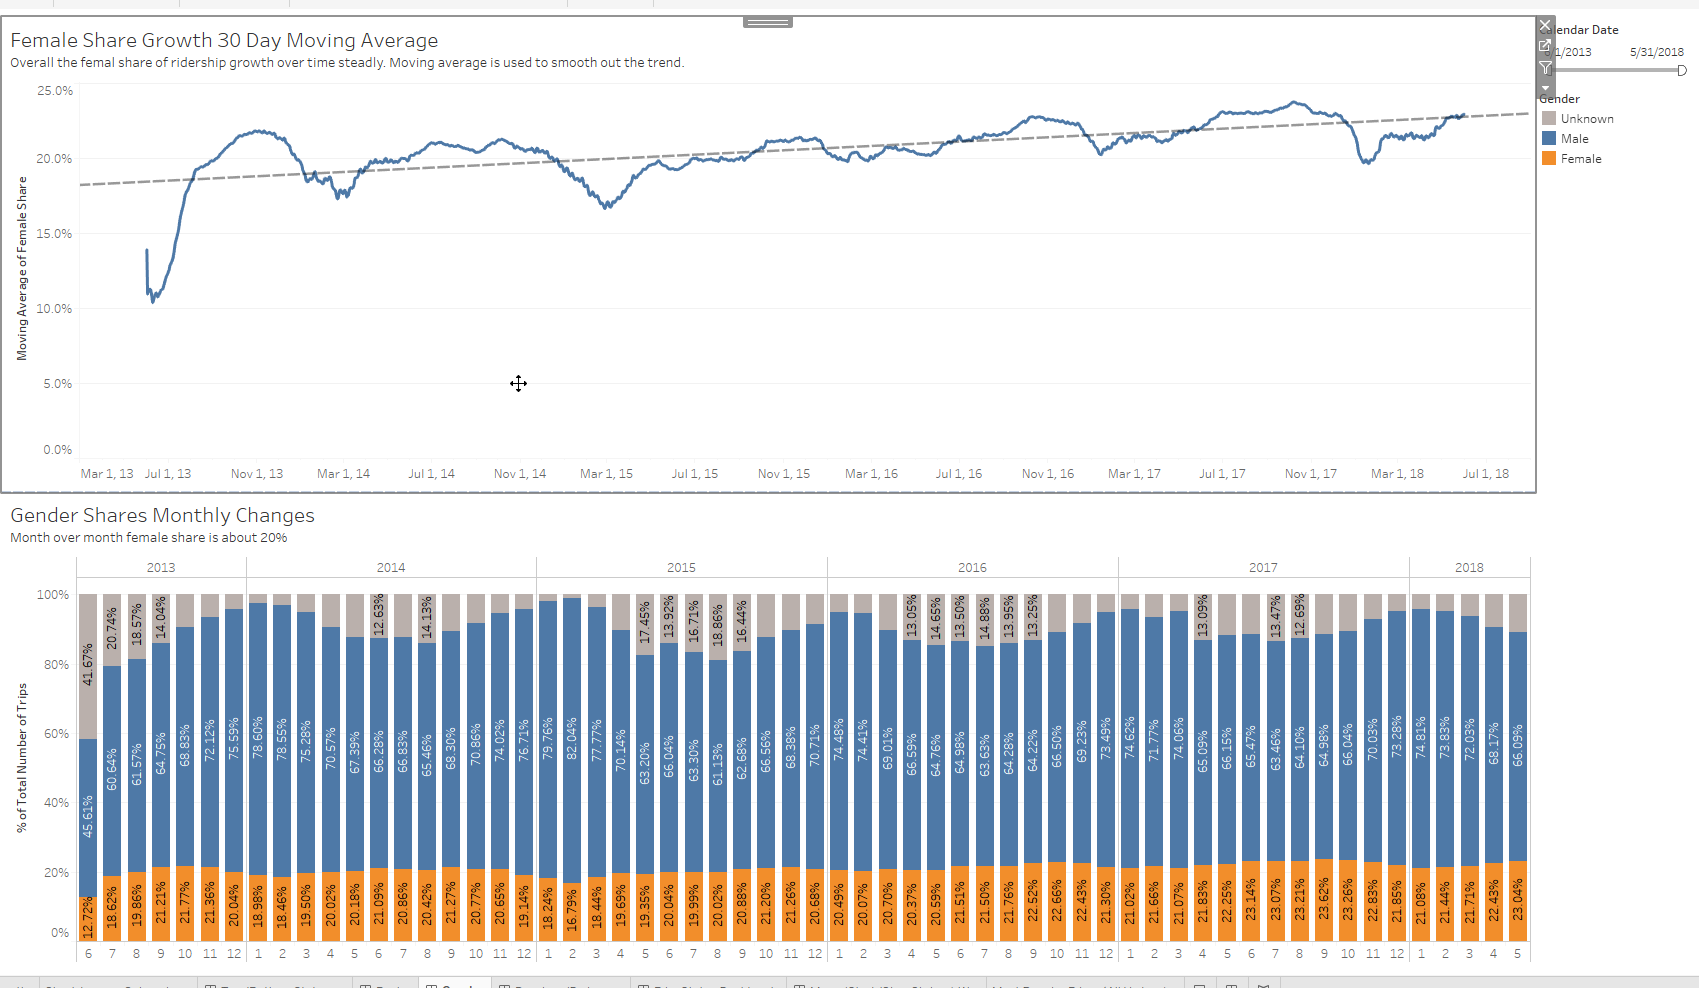
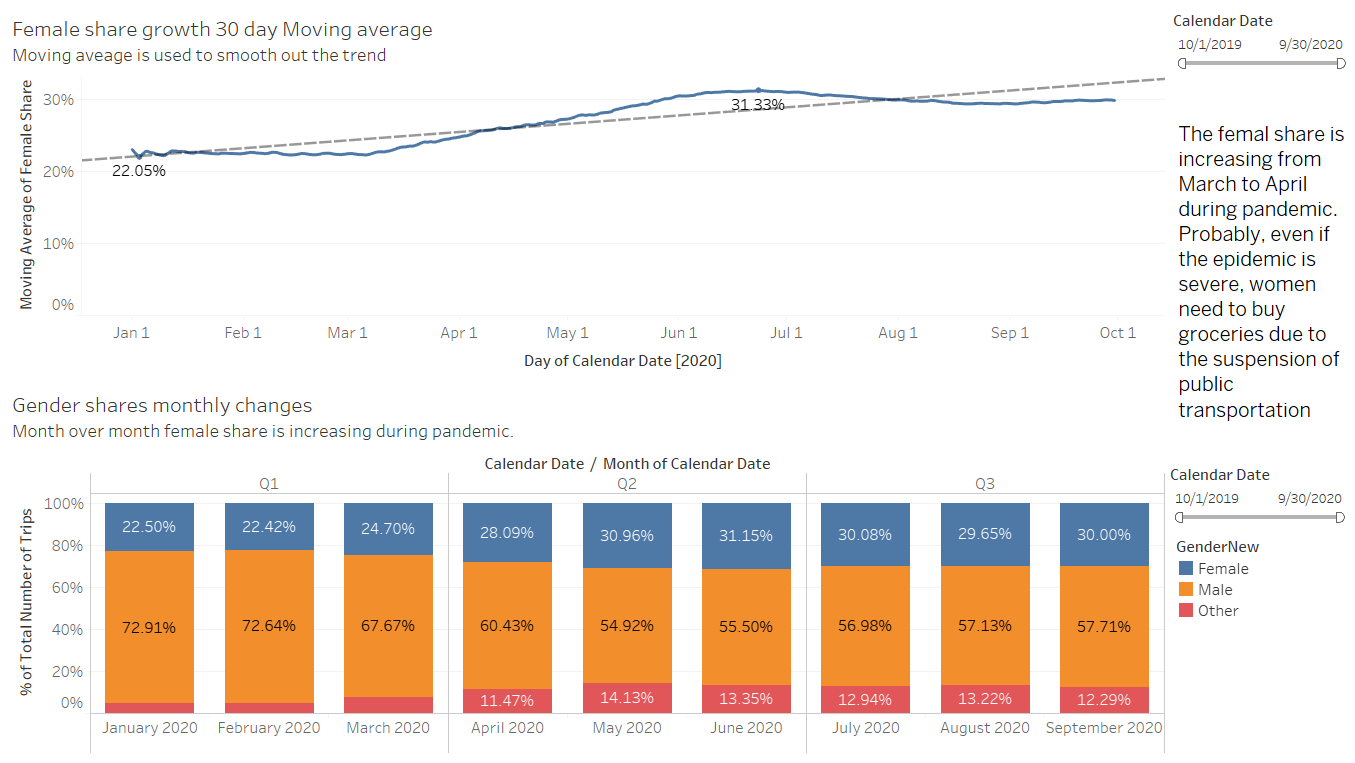
3rd commit

diff --git a/README.md b/README.md
@@ -1,74 +1,154 @@
 # Assignment - Citi Bike Analytics
 
 ![Citi-Bikes](Images/citi-bike-station-bikes.jpg)
+Congratulations on your new job! As the new lead analyst for the [New York Citi Bike](https://en.wikipedia.org/wiki/Citi_Bike) Program, you are now responsible for overseeing the largest bike sharing program in the United States. In your new role, you will be expected to generate regular reports for city officials looking to publicize and improve the city program.
 
-## Data Preparation
+Since 2013, the Citi Bike Program has implemented a robust infrastructure for collecting data on the program's utilization. Through the team's efforts, each month bike data is collected, organized, and made public on the [Citi Bike Data](https://www.citibikenyc.com/system-data) webpage.
 
-The raw data file is from [New York Citi Bike](https://en.wikipedia.org/wiki/Citi_Bike) Program. In order to download all files from https://s3.amazonaws.com/tripdata/index.html, I created a Jupyter Notebook:
+However, while the data has been regularly updated, the team has yet to implement a dashboard or sophisticated reporting process. City officials have a number of questions on the program, so your first task on the job is to build a set of data reports to provide the answers.
 
-[CitiBike-Load-To-Redshift.ipynb](CitiBike-Load-To-Redshift.ipynb)
+## Task
 
-The resulting data are stored in a single Redshift table citi_trips with around 60 million records, the Tableau visuzliatrion is conducted based on this table.
+**Your task in this assignment is to aggregate the data found in the Citi Bike Trip History Logs and find two unexpected phenomena.** 
 
-## Visualizations and Analysis
+**Design 2-5 visualizations for each discovered phenomena (4-10 total). You may work with a timespan of your choosing. Optionally, you may merge multiple datasets from different periods.** 
 
-### Dashboard "Trip and Growth"
+**The following are some questions you may wish to tackle. Do not limit yourself to these questions; they are suggestions for a starting point. Be creative!**
 
-This dash board answers following questions:
-![Trip and Growth](Images/trips_and_growth.png)
 
+### Dashboard1 "rideship during pandemic“
+![rideship during pandemic](Image/rideship_during_pandemic.png)
 
 * How many trips have been recorded total during the chosen period?
-* By what percentage has total ridership grown? 
 
-###  How has the proportion of short-term customers and annual subscribers changed?
+* By what percentage has total ridership grown?
 
-![short-term-vs-annual](Images/short_term_vs_subscriber.png)
 
-### Dashboard "Peaks"
+### Dashboard2 How has the proportion of short-term customers and annual subscribers changed?
+![Short-term vs Long-term](Image/Short-term_Long-term.png)
 
-* Today, what are the peak hours in which bikes are used during summer months? 
-* Today, what are the peak hours in which bikes are used during winter months?
-![peak](Images/peak_hours.png)
+### Dashboard3 "Peaks"
+![Peaks](Image/Peaks.png)
 
-### Dashboard "Top/Bottom Stations"
+* What are the peak hours in which bikes are used during summer months?
+
+* What are the peak hours in which bikes are used during winter months?
+
+### Dashboard4 "Top/Bottom Stations"
+![Top/Bottom Stations](Image/TopBottomStations.png)
+
+
 * Today, what are the top 10 stations in the city for starting a journey? (Based on data, why do you hypothesize these are the top locations?)
-* Today, what are the top 10 stations in the city for ending a journey? (Based on data, why?)
-* Today, what are the bottom 10 stations in the city for ending a journey (Based on data, why?)
-* Today, what is the gender breakdown of active participants (Male v. Female)?
-![top-bottom](Images/top_bottom.png)
 
-### Dashboard "Gender"
-* How effective has gender outreach been in increasing female ridership over the course of the past three years?
+* Today, what are the top 10 stations in the city for ending a journey? (Based on data, why?)
+
+* Today, what are the bottom 10 stations in the city for starting a journey? (Based on data, why?)
+
+* Today, what are the bottom 10 stations in the city for ending a journey (Based on data, why?)
+
+
+### Dashboar5 "Gender"
+![Gender](Image/Gender.png)
+* Today, what is the gender breakdown of active participants (Male v. Female)?
+
+* How effective has gender outreach been in increasing female ridership over the timespan?
+
+
+### Dashboar5 "age and average distance"
+![age and average distance](Image/age_average_distance.png)
 * How does the average trip duration change by age?
 
-![gender](Images/gender.png)
-
-### Dashboard "Duration/Distance"
 * What is the average distance in miles that a bike is ridden?
 
-![duration](Images/duration_and_distance.png)
 
-### Dashboard "Bike Status Dashboard"
+### Dashboard6 "Bike Status Dashboard"
 
-* Which Bikes (by ID) are most likely due for repair or inspection this year? 
+![Bike Status](Image/Bike_Status.png)
+
+* Which bikes (by ID) are most likely due for repair or inspection in the timespan?
+
 * How variable is the utilization by bike ID?
-![bike](Images/bike.png)
 
-### Dashboard "Maps"
+### Dashboard7 "Maps"
+![Maps](Image/maps.png)
 
-* A static map that plots all bike stations with a visual indication of the most popular locations to start and end a journey with zip code data overlaid on top.
-* A dynamic map that shows how each station's popularity changes over time (by month and year) -- with commentary pointing to any interesting events that may be behind these phenomena.
-![map](Images/map.png)
+* **Basic:** A static map that plots all bike stations with a visual indication of the most popular locations to start and end a journey with zip code data overlaid on top.
 
-### Find at least two unexpected phenomena in the data and provide a visualization and analysis to document their presence. 
+* **Advanced:** A dynamic map that shows how each station's popularity changes over time (by month and year). Again, with zip code data overlaid on the map.
 
-* Top 3 station pair (start/end) with most trips all has bike returned to the same station. The most popular one is at Central Park and 6th Avenue. Estimate of travel distance will be a challenge for trips end at same station.
-![pairs](Images/top_station_pairs.png)
+* The map you choose should also be accompanied by a write-up unveiling any trends that were noticed during your analysis.
 
-* In 2016 and 2017, there are some bikes with zero duration but non-zero distance. This need to be insvestigated. Then I found some station pairs with extremly long distance. Many of then are from or to stations call "Don't Use"
-* What are those "Don't Use" stations, and why there are trips associated with them?
-![strange-distance](Images/dont_use_stations.png)
+
+Dashboard 8:  "Station pair map"
+
+![Station pair map](Image/station_pair.png)
 
 
 
+**Finally, create your final presentation**
+
+* Create a Tableau story that brings together the visualizations, requested maps, and dashboards.
+* This is what will be presented to the officials, so be sure to make it professional, logical, and visually appealing. 
+
+## Considerations
+
+Remember, the people reading your analysis will **NOT** be data analysts. Your audience will be city officials, public administrators, and heads of New York City departments. Your data and analysis needs to be presented in a way that is focused, concise, easy-to-understand, and visually compelling. Your visualizations should be colorful enough to be included in press releases, and your analysis should be thoughtful enough for dictating programmatic changes. 
+
+## Submission 
+
+Your final submission should include:
+
+* A link to your Tableau Public workbook that includes: 
+  * 4-10 Total "Phenomenon" Visualizations 
+  * 2 Dashboards
+  * 1 City Official Map
+  * 1 Story 
+* A text or markdown file with your analysis on the phenomenons you uncovered from the data.
+
+## Sharing Your Work
+In order to share your work, we are asking that you will save your workbook as a .twbx file so that your TA's can grade them.
+
+To save your workbook as a .twbx file, you will just need to select "Save As..." from the "File" dropdown. Then, select the .twbx option.
+
+## Assessment
+
+Your final product will be assessed on the following metrics:
+
+* Analytic Rigor
+
+* Readability
+
+* Visual Attraction
+
+
+## Hints
+
+* You may need to get creative in how you combine each of the CSV files. Don't just assume Tableau is the right tool for the job. At this point, you have a wealth of technical skills and research abilities. Dig for an approach that works and just go with it.
+
+* Don't just assume the CSV format hasn't changed since 2013. Subtle changes to the formats in any of your columns can blockade your analysis. Ensure your data is consistent and clean throughout your analysis. (Hint: Start and End Time change at some point in the history logs).
+
+* Consider building your visualizations with small extracts of the data (i.e. single files) before attempting to import the whole thing. What you will find is that importing all 20+ million records of data will create performance issues quickly. Welcome to "Big Data."
+
+* While utilizing all of the data may seem like a nice power play, consider the time-course in making your analysis. Is data from 2013 the most relevant for making bike replacement decisions today? Probably not. Don't let overwhelming data fool you. Ground your analysis in common sense.
+
+* Remember, data alone doesn't "answer" anything. You will need to accompany your data visualizations with clear and directed answers and analysis.
+
+* As is often the case, your clients are asking for a LOT of answers. Be considerate about their need-to-know and the importance of not "cramming in everything". Of course, answer each question, but do so in a way that is organized and presentable.
+
+* Since this is a project for the city, spend the appropriate time thinking through decisions on color schemes, fonts, and visual story-telling. The Citi Bike program has a clear visual footprint. As a suggestion, look for ways to have your data visualizations match their aesthetic tones.
+
+* Pay attention to labels. What exactly is "time duration"? What's the value of "age of birth"? You will almost certainly need calculated fields to get what you need.
+
+* Keep a close eye for obvious outliers or false data. Not everyone who signs up for the program is answering honestly.
+
+* In answering the question of "why" a phenomenon is occurring, consider adding other pieces of information on socioeconomic or other geographic data. Tableau has a map "layer" feature that you may find handy.
+
+* Don't be afraid to manipulate your data and play with settings in Tableau. Tableau is meant to be explored. We haven't covered all that you need -- so you will need to keep an eye out for new tricks.
+
+* Treat this as a serious endeavor! This is an opportunity to show future employers that you have what it takes to be a top-notch analyst. 
+
+* Good luck!
+
+### Copyright
+
+Data Boot Camp © 2019. All Rights Reserved.
